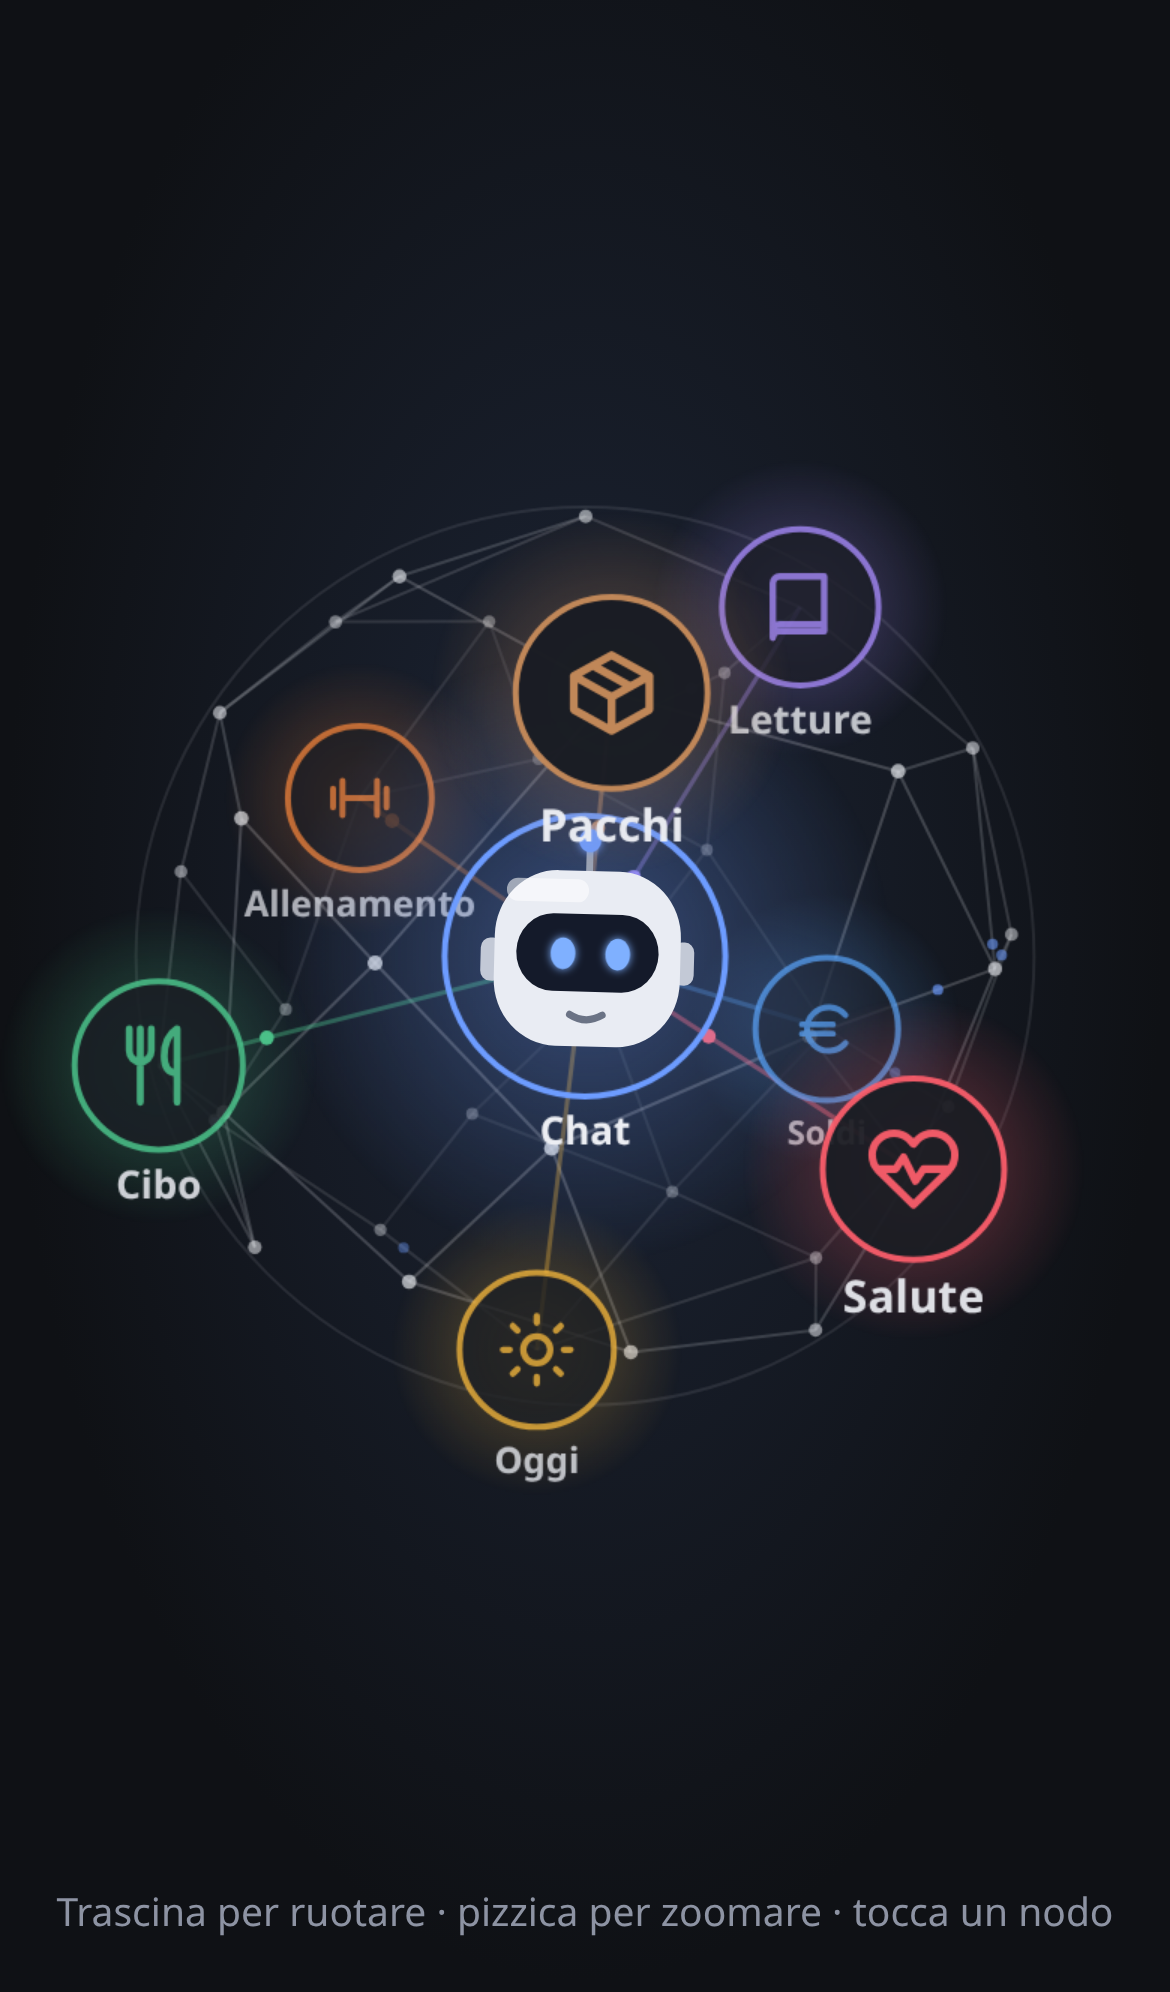
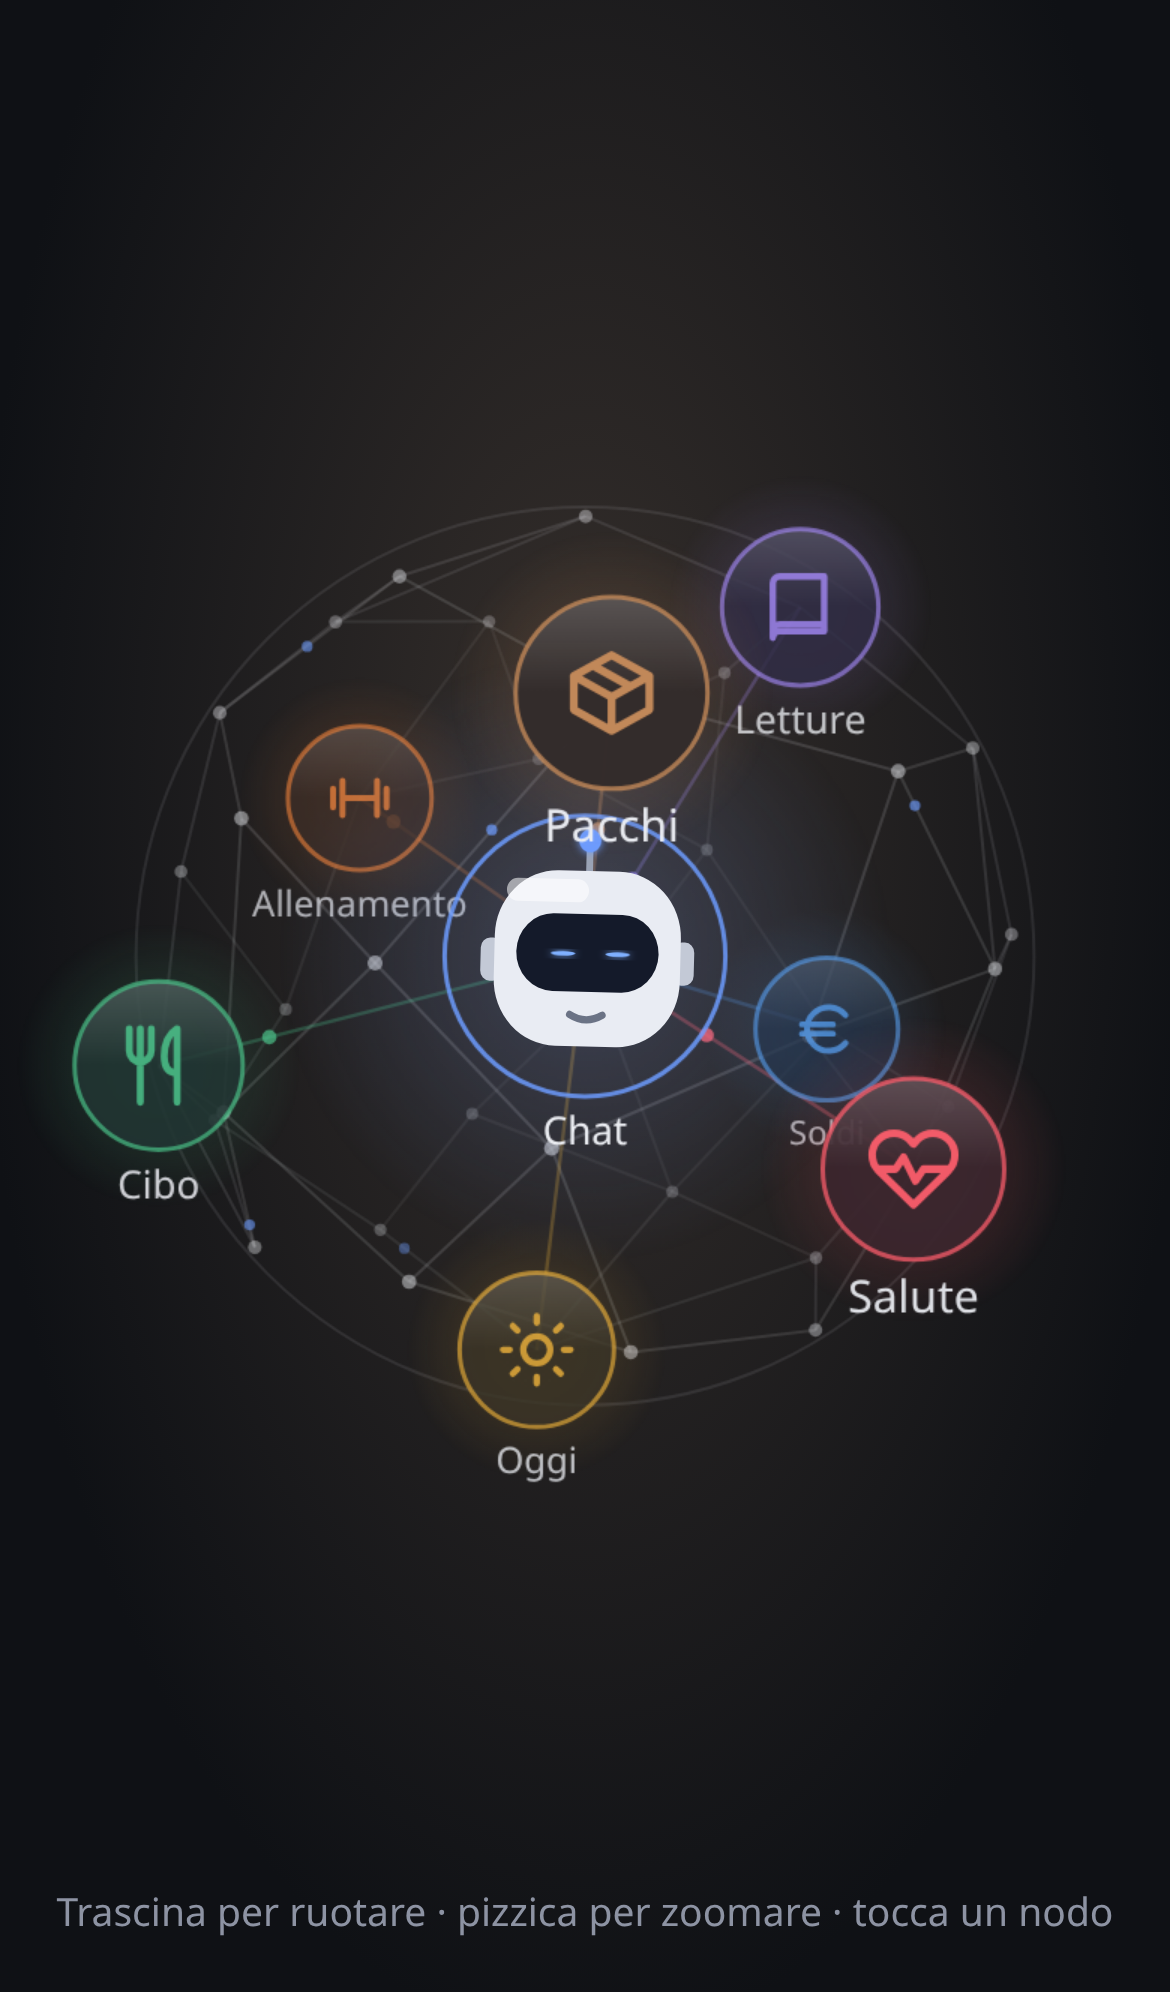
Rete: nodi di vetro, tinta dello sfondo che segue il nodo davanti, maglia più calma
Stesse regole d'aspetto delle schede: dischi con velo del colore, riflesso in alto e bordo sottile; alone e raggi più leggeri; etichette più sottili; foto 13 rifatta.

diff --git a/server/static/index.html b/server/static/index.html
@@ -109,7 +109,7 @@ html.tastiera body > footer { margin-bottom: 0; }
 footer { padding-bottom: 10px !important; }
 html.tastiera footer { padding-bottom: 8px !important; }
 /* La rete: schermata iniziale. Chat al centro, un nodo per scheda; si ruota col dito, si zooma a pizzico. */
-#rete { position: fixed; inset: 0; z-index: 40; background: radial-gradient(ellipse at 50% 45%, color-mix(in srgb, var(--accento) 14%, var(--sfondo)), var(--sfondo) 70%);
+#rete { position: fixed; inset: 0; z-index: 40; background: radial-gradient(ellipse at 50% 40%, color-mix(in srgb, var(--tinta, var(--accento)) 24%, var(--sfondo)), var(--sfondo) 74%);
   transition: opacity .25s; touch-action: none; user-select: none; -webkit-user-select: none; }
 #rete.nascosta { opacity: 0; pointer-events: none; }
 #rete canvas { position: absolute; inset: 0; width: 100%; height: 100%; pointer-events: none; }
@@ -857,12 +857,21 @@ function proietta(x, y, z) {
   const R = Math.min(W * 0.37, H * 0.32) * zoom, f = 5.5 / (5.5 - z2);
   return {x: W / 2 + x1 * R * f, y: H * 0.48 + y1 * R * f, z: z2, f, R};
 }
+// La tinta dello sfondo segue il nodo che passa davanti: si avvicina un po' per volta e si scrive solo se cambia.
+let tintaRGB = [109, 156, 255], tintaScritta = "";
+function aggiornaTinta(hex) {
+  const m = /^#?([0-9a-f]{2})([0-9a-f]{2})([0-9a-f]{2})/i.exec(hex); if (!m) return;
+  for (let i = 0; i < 3; i++) tintaRGB[i] += (parseInt(m[i + 1], 16) - tintaRGB[i]) * 0.04;
+  const v = "rgb(" + tintaRGB.map(Math.round).join(",") + ")";
+  if (v !== tintaScritta) { tintaScritta = v; rete.style.setProperty("--tinta", v); }
+}
 function disegnaRete(t) {
   const ctxB = ctx;
   const testoC = colore("--testo") || "#fff", accento = colore("--accento") || "#6d9cff", carta = colore("--carta") || "#1a1d24";
   for (const k of [ctx, ctxD]) { k.setTransform(dpr, 0, 0, dpr, 0, 0); k.clearRect(0, 0, W, H); }
   const c = proietta(0, 0, 0);
   nodi = RETE.map(r => ({r, p: proietta(r.x, r.y, r.z)}));
+  aggiornaTinta(nodi.reduce((a, b) => b.p.z > a.p.z ? b : a).r.colore);
   // contorno della sfera
   ctx.strokeStyle = testoC; ctx.globalAlpha = 0.1; ctx.lineWidth = 1;
   ctx.beginPath(); ctx.arc(c.x, c.y, c.R * 1.02 * 5.5 / Math.sqrt(5.5 * 5.5 - 1) / 1.0, 0, 7); ctx.stroke();
@@ -870,9 +879,9 @@ function disegnaRete(t) {
   const pp = MAGLIA.pt.map(q => proietta(q.x, q.y, q.z));
   MAGLIA.archi.forEach(([i, j], k) => {
     const A = pp[i], B = pp[j], z = (A.z + B.z) / 2;
-    ctx.strokeStyle = testoC; ctx.globalAlpha = 0.07 + 0.17 * (z + 1) / 2; ctx.lineWidth = 1;
+    ctx.strokeStyle = testoC; ctx.globalAlpha = 0.05 + 0.11 * (z + 1) / 2; ctx.lineWidth = 1;
     ctx.beginPath(); ctx.moveTo(A.x, A.y); ctx.lineTo(B.x, B.y); ctx.stroke();
-    if (!fermo && k % 9 === 0) {   // qualche impulso viaggia sulla maglia
+    if (!fermo && k % 14 === 0) {   // qualche impulso viaggia sulla maglia
       const u = ((t / 2600) + k * 0.19) % 1;
       ctx.globalAlpha = 0.25 + 0.5 * (z + 1) / 2; ctx.fillStyle = accento;
       ctx.beginPath(); ctx.arc(A.x + (B.x - A.x) * u, A.y + (B.y - A.y) * u, 1.8, 0, 7); ctx.fill();
@@ -880,13 +889,13 @@ function disegnaRete(t) {
   });
   pp.forEach((q, i) => {
     if (i < RETE.length) return;
-    ctx.globalAlpha = 0.25 + 0.5 * (q.z + 1) / 2; ctx.fillStyle = testoC;
+    ctx.globalAlpha = 0.18 + 0.34 * (q.z + 1) / 2; ctx.fillStyle = testoC;
     ctx.beginPath(); ctx.arc(q.x, q.y, 1.6 * q.f * zoom + 0.6, 0, 7); ctx.fill();
   });
   // raggi colorati dal centro a ogni scheda, con un impulso
   nodi.forEach((n, k) => {
-    const al = 0.5 * (0.55 + 0.45 * (n.p.z + 1) / 2);
-    ctx.strokeStyle = n.r.colore; ctx.globalAlpha = al; ctx.lineWidth = 1.5;
+    const al = 0.36 * (0.55 + 0.45 * (n.p.z + 1) / 2);
+    ctx.strokeStyle = n.r.colore; ctx.globalAlpha = al; ctx.lineWidth = 1.2;
     ctx.beginPath(); ctx.moveTo(c.x, c.y); ctx.lineTo(n.p.x, n.p.y); ctx.stroke();
     if (!fermo) {
       const u = ((t / 2200) + k * 0.37) % 1;
@@ -899,24 +908,29 @@ function disegnaRete(t) {
   nodi.slice().sort((a, b) => a.p.z - b.p.z).forEach(n => {
     const {r, p} = n, s = p.f * zoom, rad = 27 * s, ctx = p.z > 0 ? ctxD : ctxB;
     n.rad = rad; ctx.globalAlpha = 0.65 + 0.35 * (p.z + 1) / 2;
-    const g = ctx.createRadialGradient(p.x, p.y, rad * 0.4, p.x, p.y, rad * 1.9);
-    g.addColorStop(0, r.colore + "55"); g.addColorStop(1, r.colore + "00");
-    ctx.fillStyle = g; ctx.beginPath(); ctx.arc(p.x, p.y, rad * 1.9, 0, 7); ctx.fill();
-    ctx.fillStyle = carta; ctx.strokeStyle = r.colore; ctx.lineWidth = 2;
-    ctx.beginPath(); ctx.arc(p.x, p.y, rad, 0, 7); ctx.fill(); ctx.stroke();
+    const g = ctx.createRadialGradient(p.x, p.y, rad * 0.5, p.x, p.y, rad * 1.7);
+    g.addColorStop(0, r.colore + "30"); g.addColorStop(1, r.colore + "00");
+    ctx.fillStyle = g; ctx.beginPath(); ctx.arc(p.x, p.y, rad * 1.7, 0, 7); ctx.fill();
+    // disco di vetro: fondo scuro, velo del colore, riflesso in alto e bordo sottile
+    ctx.beginPath(); ctx.arc(p.x, p.y, rad, 0, 7); ctx.fillStyle = carta; ctx.fill();
+    ctx.fillStyle = r.colore + "26"; ctx.fill();
+    const hl = ctx.createLinearGradient(p.x, p.y - rad, p.x, p.y + rad);
+    hl.addColorStop(0, "rgba(255,255,255,.20)"); hl.addColorStop(0.5, "rgba(255,255,255,0)");
+    ctx.fillStyle = hl; ctx.fill();
+    ctx.strokeStyle = r.colore + "cc"; ctx.lineWidth = 1.5; ctx.stroke();
     ctx.save(); const sc = rad * 1.05 / 24; ctx.translate(p.x - 12 * sc, p.y - 12 * sc); ctx.scale(sc, sc);
     ctx.strokeStyle = r.colore; ctx.lineWidth = 1.9; ctx.lineCap = ctx.lineJoin = "round"; ctx.stroke(r.path); ctx.restore();
     ctx.textAlign = "center"; ctx.fillStyle = testoC;
-    ctx.font = "600 " + Math.max(11, Math.round(13 * s)) + "px -apple-system, system-ui, sans-serif"; ctx.textBaseline = "top";
+    ctx.font = "500 " + Math.max(11, Math.round(13 * s)) + "px -apple-system, system-ui, sans-serif"; ctx.textBaseline = "top";
     ctx.fillText(r.nome, p.x, p.y + rad + 6);
   });
   ctxD.globalAlpha = ctxB.globalAlpha = 1;
   // nodo centrale: la mascotte è un elemento a parte, qui solo l'alone e la scritta
   const rc = Math.min(W, H) * 0.12 * zoom, g = ctx.createRadialGradient(c.x, c.y, rc * 0.5, c.x, c.y, rc * 2.2);
-  g.addColorStop(0, accento + "44"); g.addColorStop(1, accento + "00");
+  g.addColorStop(0, accento + "2a"); g.addColorStop(1, accento + "00");
   ctx.fillStyle = g; ctx.beginPath(); ctx.arc(c.x, c.y, rc * 2.2, 0, 7); ctx.fill();
-  ctx.strokeStyle = accento; ctx.lineWidth = 2; ctx.beginPath(); ctx.arc(c.x, c.y, rc, 0, 7); ctx.stroke();
-  ctx.font = "600 13px -apple-system, system-ui, sans-serif"; ctx.textAlign = "center"; ctx.textBaseline = "top"; ctx.fillStyle = testoC;
+  ctx.strokeStyle = accento; ctx.globalAlpha = 0.85; ctx.lineWidth = 1.5; ctx.beginPath(); ctx.arc(c.x, c.y, rc, 0, 7); ctx.stroke(); ctx.globalAlpha = 1;
+  ctx.font = "500 13px -apple-system, system-ui, sans-serif"; ctx.textAlign = "center"; ctx.textBaseline = "top"; ctx.fillStyle = testoC;
   ctx.fillText("Chat", c.x, c.y + rc + 6);
   centroRete = {x: c.x, y: c.y, rad: rc};
   if (mascotteRete) { mascotteRete.el.style.left = c.x + "px"; mascotteRete.el.style.top = c.y + "px"; }
